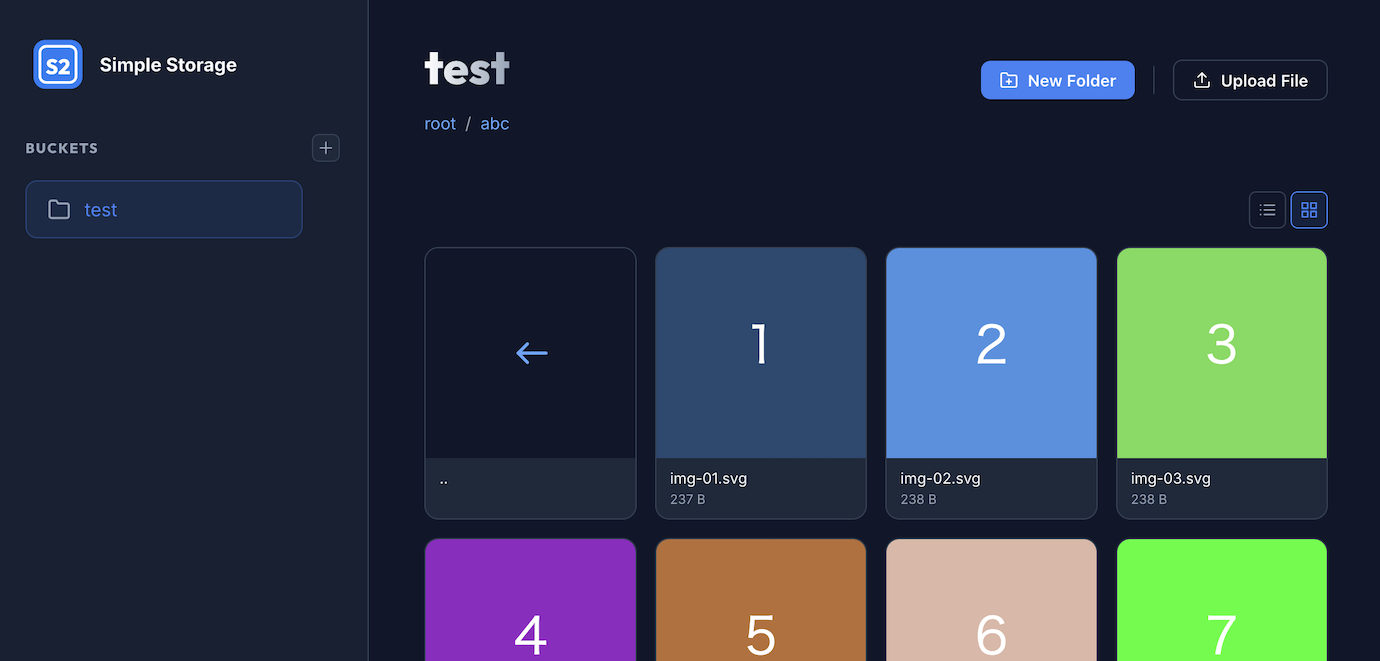
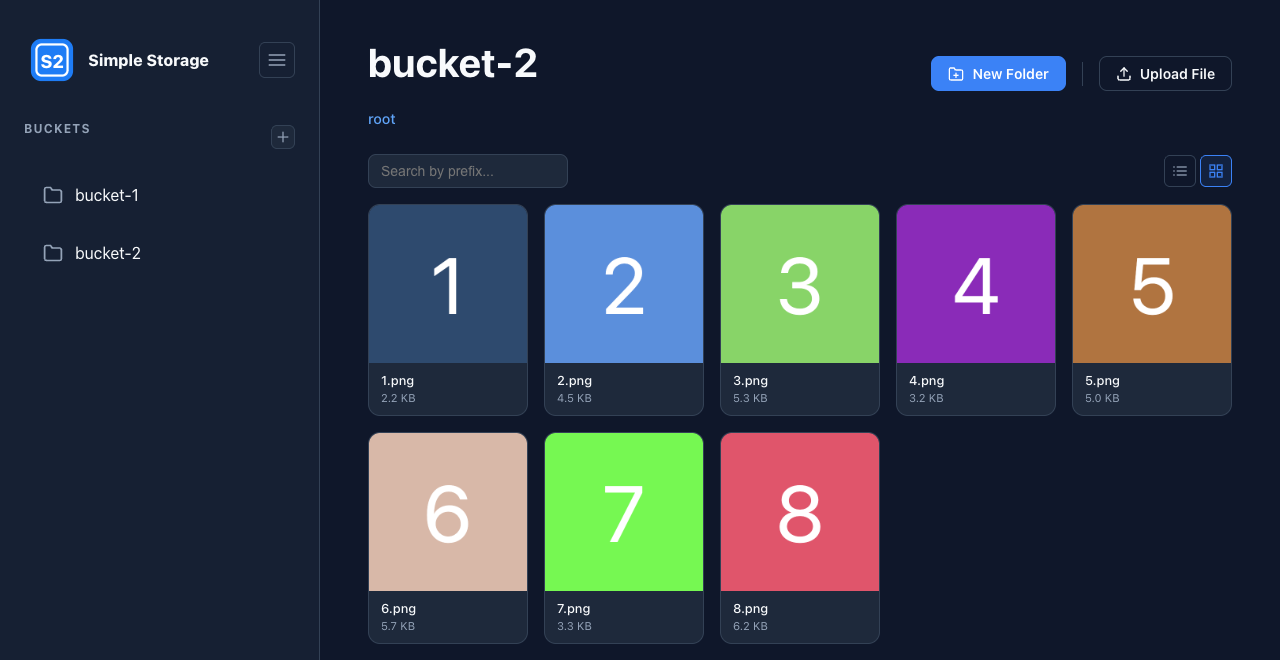
fix(console): Use system fonts instead of loading Google Fonts (#389)
* fix(console): Use system fonts instead of loading Google Fonts

* docs: Retake the console screenshots at 1280px wide

diff --git a/server/templates/console/index.html b/server/templates/console/index.html
@@ -6,11 +6,6 @@
   <meta name="viewport" content="width=device-width, initial-scale=1.0">
   <title>S2 | Web Console</title>
   <script src="/static/htmx.min.js"></script>
-  <link rel="preconnect" href="https://fonts.googleapis.com">
-  <link rel="preconnect" href="https://fonts.gstatic.com" crossorigin>
-  <link
-    href="https://fonts.googleapis.com/css2?family=Inter:wght@300;400;600;700&family=Outfit:wght@400;600;800&display=swap"
-    rel="stylesheet">
   <link rel="stylesheet" href="/static/style.css">
 </head>
 
@@ -23,7 +18,7 @@
             <svg viewBox="0 0 48 48" width="44" height="44">
               <rect x="1" y="1" width="46" height="46" rx="11" ry="11" fill="#1e7cf5"/>
               <rect x="7" y="7" width="34" height="34" rx="6" ry="6" fill="none" stroke="white" stroke-width="2.5"/>
-              <text x="24" y="33" text-anchor="middle" font-family="'Outfit', sans-serif" font-weight="800" font-size="20" fill="white">S2</text>
+              <text x="24" y="33" text-anchor="middle" font-weight="800" font-size="20" fill="white">S2</text>
             </svg>
           </div>
           <span>Simple Storage</span>

diff --git a/server/static/style.css b/server/static/style.css
@@ -30,7 +30,7 @@
 }
 
 body {
-  font-family: 'Inter', system-ui, sans-serif;
+  font-family: system-ui, -apple-system, 'Segoe UI', Roboto, sans-serif;
   background-color: var(--bg);
   color: var(--text);
   line-height: 1.5;
@@ -39,7 +39,6 @@ body {
 }
 
 h1, h2, h3 {
-  font-family: 'Outfit', sans-serif;
   font-weight: 700;
 }
 

diff --git a/server/console_test.go b/server/console_test.go
@@ -2,7 +2,9 @@ package server
 
 import (
 	"context"
+	"io/fs"
 	"net/http/httptest"
+	"regexp"
 	"testing"
 
 	"github.com/stretchr/testify/assert"
@@ -61,6 +63,42 @@ func TestRenderConsoleIndex(t *testing.T) {
 			for _, notWant := range tc.wantNotContains {
 				assert.NotContains(t, body, notWant)
 			}
+		})
+	}
+}
+
+// otherHostURL matches an absolute or protocol-relative URL in HTML, CSS or JS.
+var otherHostURL = regexp.MustCompile(`(?i)["'(=\x60][ \t]*(https?:)?//`)
+
+// The console references no other host, so it works offline; any absolute URL fails.
+func TestConsoleLoadsNothingFromOtherHosts(t *testing.T) {
+	// The Google Fonts link the console used to load must match, or the scan below proves nothing.
+	require.Regexp(t, otherHostURL, `<link href="https://fonts.googleapis.com/css2?family=Inter" rel="stylesheet">`)
+
+	testCases := []struct {
+		caseName string
+		fsys     fs.FS
+	}{
+		{caseName: "templates", fsys: templatesFS},
+		{caseName: "static", fsys: StaticFS},
+	}
+	for _, tc := range testCases {
+		t.Run(tc.caseName, func(t *testing.T) {
+			scanned := 0
+			err := fs.WalkDir(tc.fsys, ".", func(name string, d fs.DirEntry, err error) error {
+				if err != nil || d.IsDir() {
+					return err
+				}
+				b, err := fs.ReadFile(tc.fsys, name)
+				if err != nil {
+					return err
+				}
+				scanned++
+				assert.NotRegexp(t, otherHostURL, string(b), name)
+				return nil
+			})
+			require.NoError(t, err)
+			assert.NotZero(t, scanned, "walk visited no files; the scan proves nothing")
 		})
 	}
 }

diff --git a/server/handlers/console/buckets/objects_test.go b/server/handlers/console/buckets/objects_test.go
@@ -1340,7 +1340,7 @@ func (s *ObjectsTestSuite) newBrowser() (context.Context, string) {
 	// --no-sandbox avoids Chrome sandbox-init failures seen on some CI
 	// runners; not needed locally but harmless there.
 	allocOpts := append(chromedp.DefaultExecAllocatorOptions[:], chromedp.NoSandbox)
-	// Resolve every host but the test server to NOTFOUND, so a hanging Google Fonts fetch cannot hold the load event Navigate waits for.
+	// Resolve every host but the test server to NOTFOUND, so no network fetch can hold the load event Navigate waits for.
 	allocOpts = append(allocOpts, chromedp.Flag("host-resolver-rules", "MAP * ~NOTFOUND, EXCLUDE 127.0.0.1"))
 	// chromedp's auto-detection tries "chromium"/"chromium-browser" before
 	// "google-chrome". On GitHub's ubuntu-latest runner, chromium is a snap
